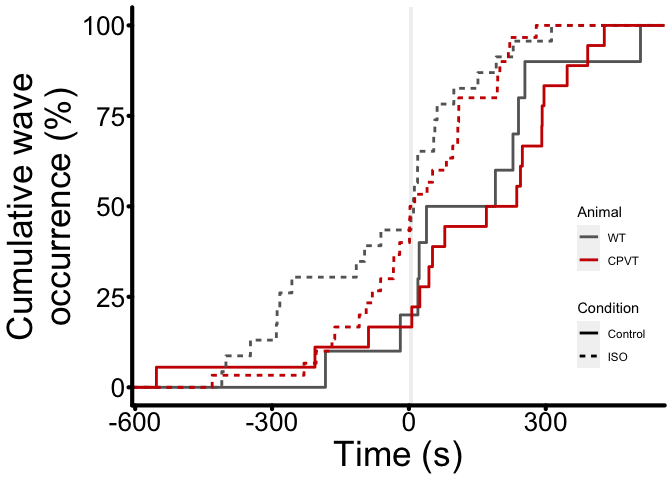
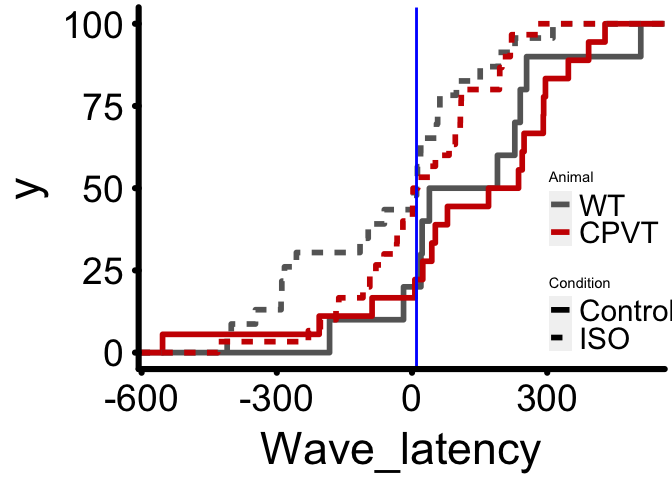
adding continuous integration for github checks.

Changed region(s): [[0.0, 0.0, 1.0, 1.0], [0.8125, 0.3438, 0.875, 0.375]]

diff --git a/README.md b/README.md
@@ -4,6 +4,8 @@
 # AnlysisOfWaves
 
 <!-- badges: start -->
+
+[![R-CMD-check](https://github.com/rjlopez2/AnlysisOfWaves/workflows/R-CMD-check/badge.svg)](https://github.com/rjlopez2/AnlysisOfWaves/actions)
 <!-- badges: end -->
 
 The goal of AnlysisOfWaves is to easily reproduce the analysis of Ca2+
@@ -31,8 +33,8 @@ wave_or_EAP_threshold <- 10 # Set time for highlighting the relative wave occurr
 
 df_waves_intact_cells %>%
   my_cum_occu_wave_plot_func(reffer_wave_thres = wave_or_EAP_threshold,
-                             base_size = 22)
-#> $cum_occu_plot
+                             my_var = "Wave_latency",
+                             base_size = 28, line_size = 2)
 ```
 
 <img src="man/figures/README-example-1.png" width="600px" />
